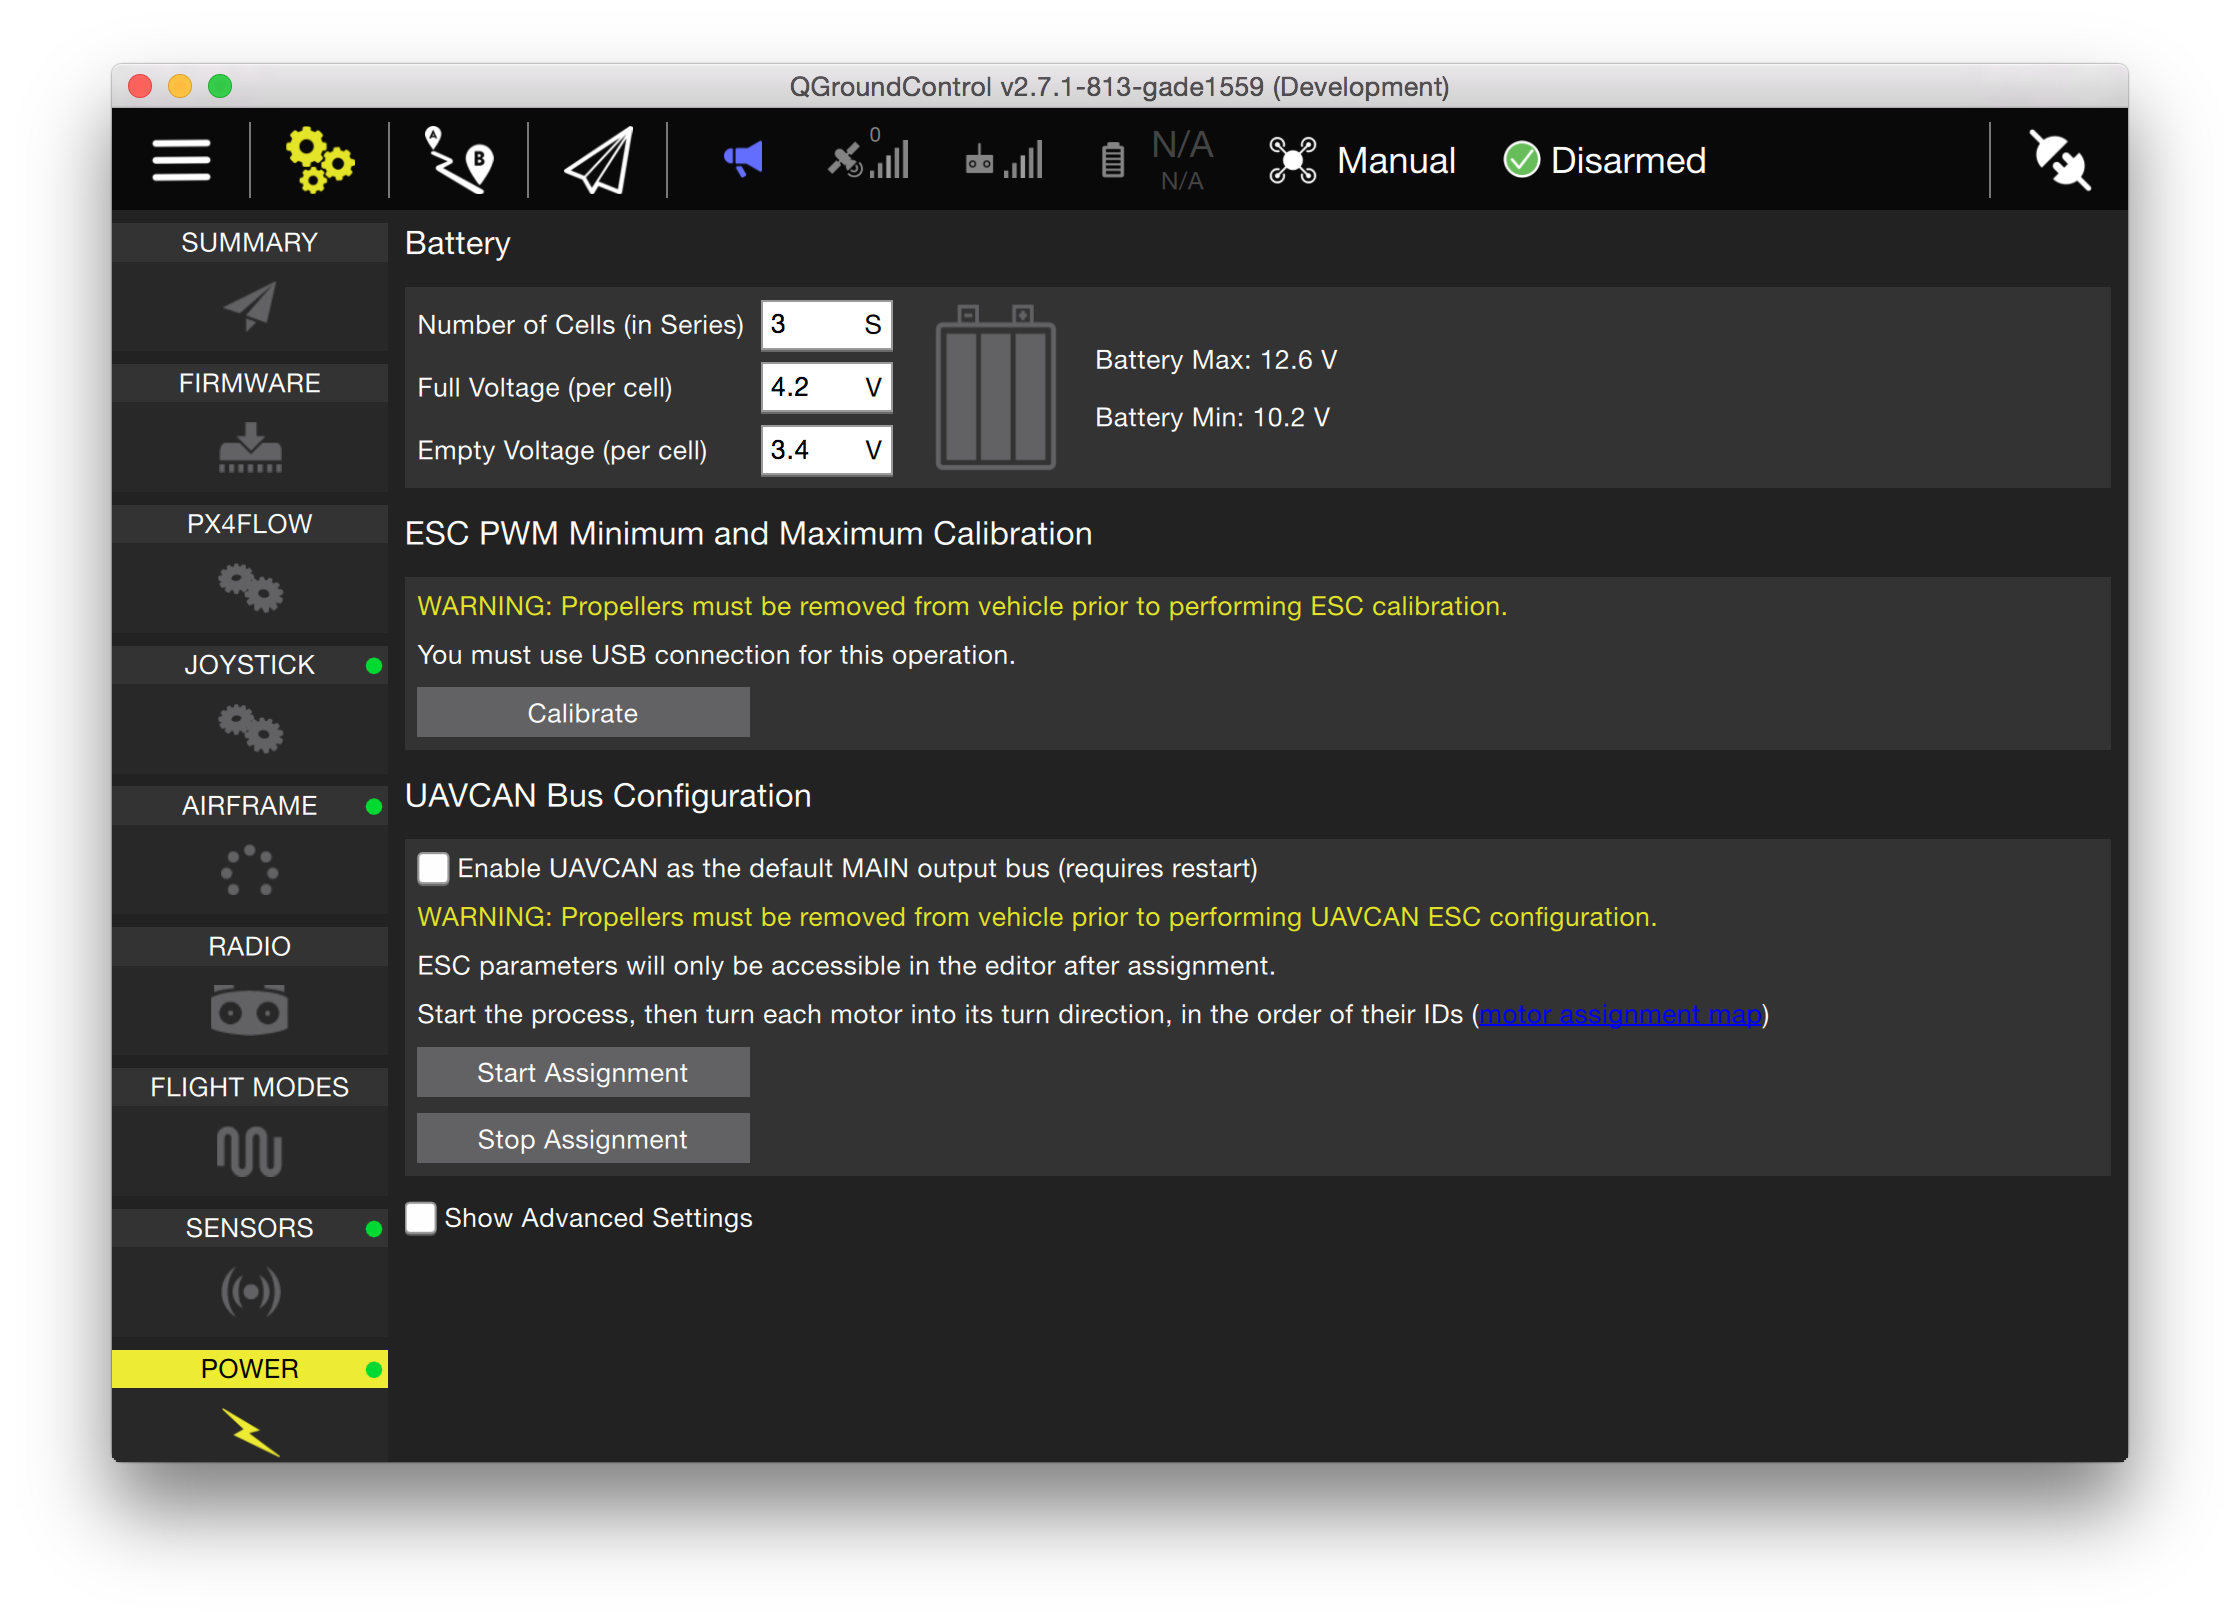
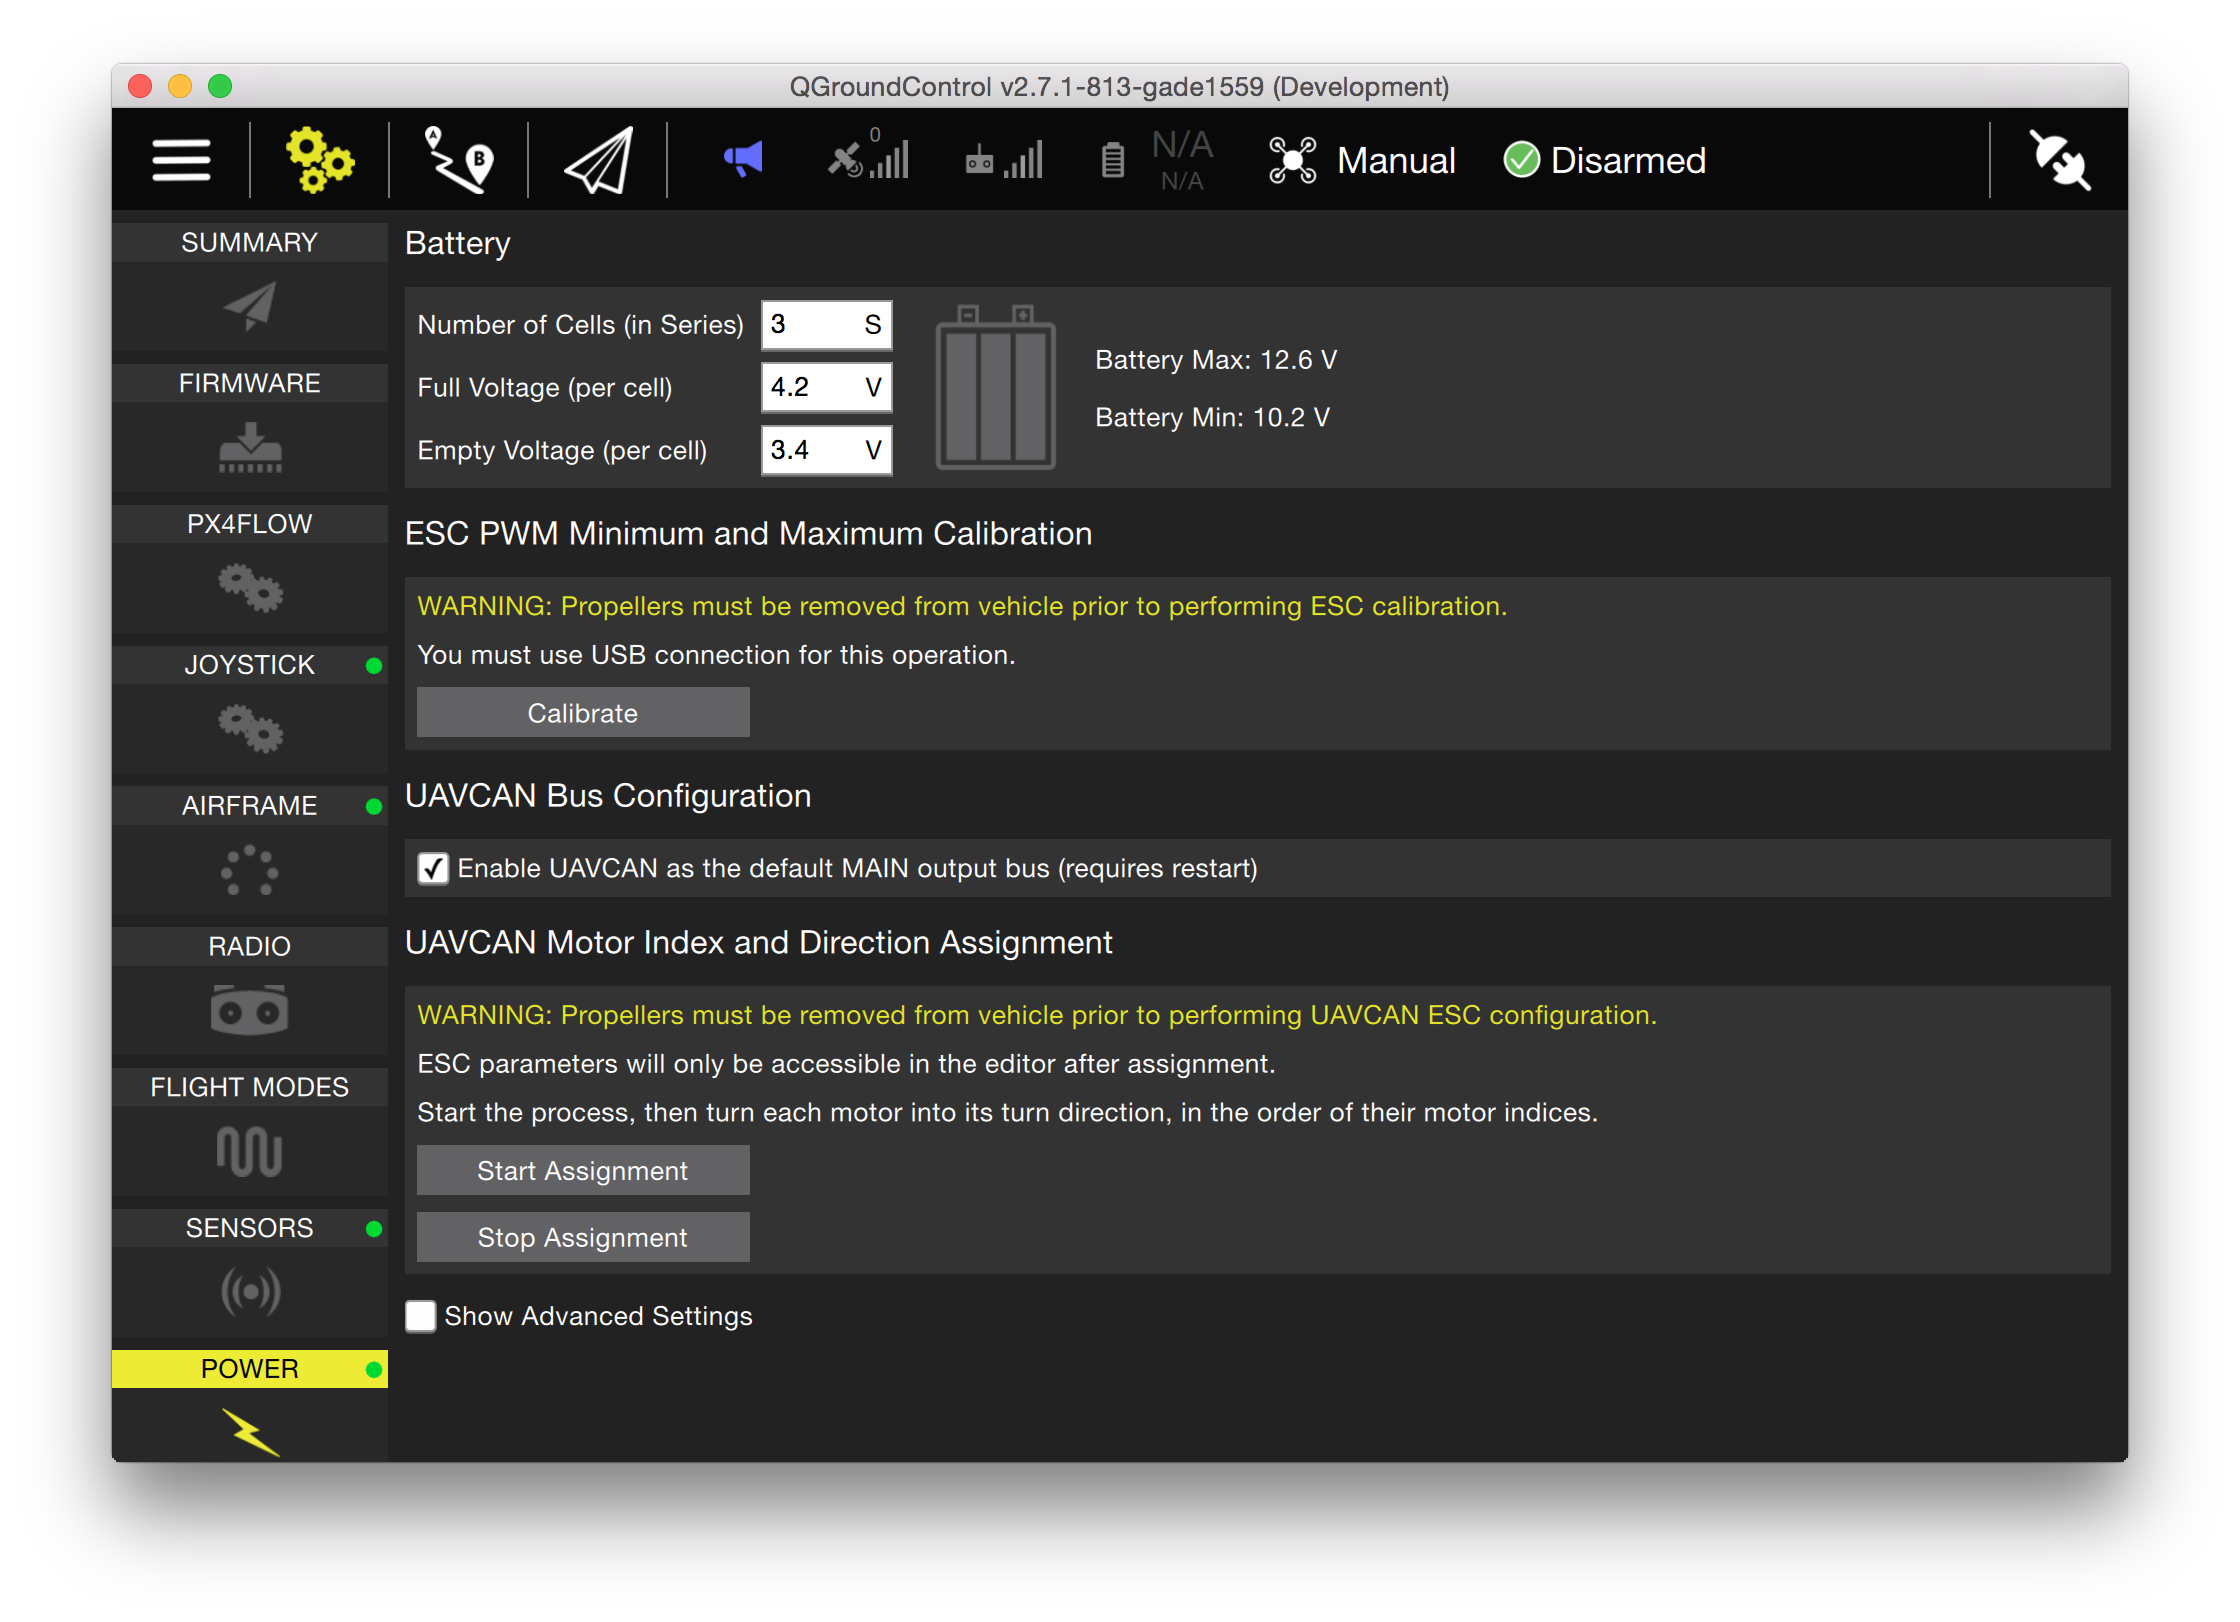
Fix instructions for CAN

Changed region(s): [[0.1562, 0.5549, 0.7812, 0.8323]]

diff --git a/book/uavcan-node-enumeration.md b/book/uavcan-node-enumeration.md
@@ -1,7 +1,7 @@
 # UAVCAN Enumeration and Configuration
 
-<aside class="todo">
-Set the UAVCAN_ENABLE parameter to '3' in the QGroundControl parameter editor and *power cycle* the board to enable CAN motor outputs. Set it to '2' to enable CAN, but leave motor outputs on PWM.
+<aside class="note">
+Enable UAVCAN as the default motor output bus by ticking the 'Enable UAVCAN' checkbox as shown below. Alternatively the UAVCAN_ENABLE parameter can be set to '3' in the QGroundControl parameter editor. Set it to '2' to enable CAN, but leave motor outputs on PWM.
 </aside>
 
 Use [QGroundControl](qgroundcontrol-intro.md) and switch to the Setup view. Select the Power Configuration on the left. Click on the UAVCAN configuration start button. The ESCs will all beep each time one is enumerated, and then the enumerated one will restart.

diff --git a/book/uavcan-node-firmware.md b/book/uavcan-node-firmware.md
@@ -107,7 +107,7 @@ Note that the ROMFS/px4fmu_common directory will be mounted to /etc on Pixhawk.
 ### Starting the Firmware Upgrade process
 
 <aside class="note">
-When using the [PX4 Flight Stack](concept-flight-stack.md), set the UAVCAN_ENABLE parameter to '3' in the QGroundControl parameter editor and *power cycle* the board to enable CAN motor outputs. Set it to '2' to enable CAN firmware upgrades, but leave motor outputs on PWM.
+When using the [PX4 Flight Stack](concept-flight-stack.md), enable UAVCAN in the 'Power Config' section and reboot the system before attempting an UAVCAN firmware upgrade.
 </aside>
 
 Alternatively UAVCAN firmware upgrading can be started manually on NSH via:
